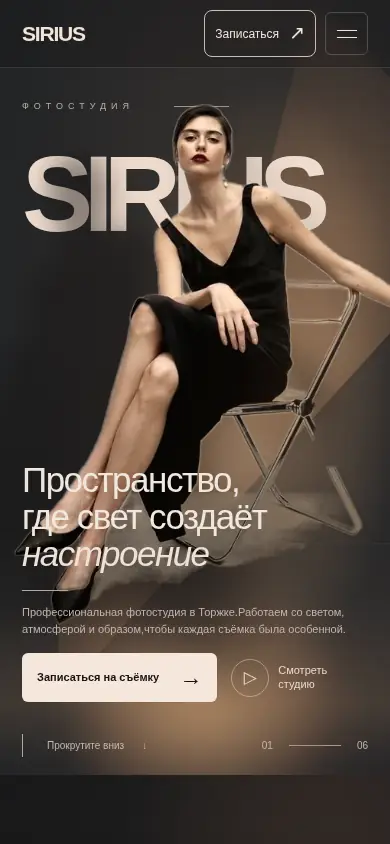
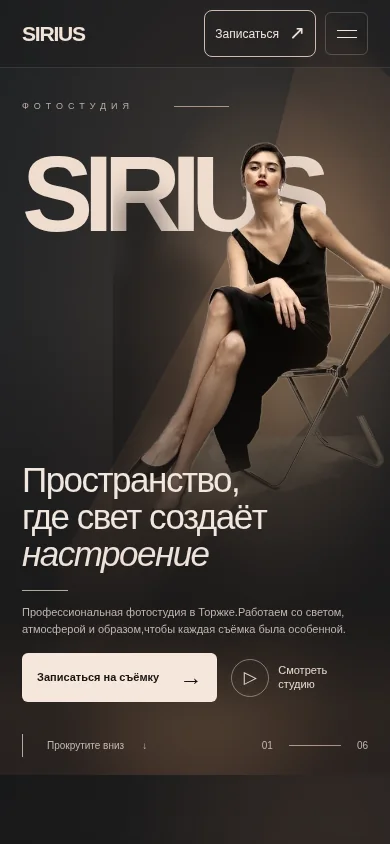
fix: repair corrupted full-page screenshot upload and mobile hero overlap

diff --git a/script.js b/script.js
@@ -179,11 +179,28 @@
   const hero = document.querySelector('[data-hero]');
   const booking = document.querySelector('[data-final]');
   const contacts = document.querySelector('#contacts');
-  if (sticky && hero && booking && contacts && 'IntersectionObserver' in window) {
-    const seen = {hero:true,booking:false,contacts:false};
-    const sync = () => sticky.classList.toggle('is-visible', !seen.hero && !seen.booking && !seen.contacts);
-    for (const [node,key] of [[hero,'hero'],[booking,'booking'],[contacts,'contacts']]) {
-      new IntersectionObserver(([entry]) => {seen[key] = entry.isIntersecting;sync();},{threshold:.08}).observe(node);
-    }
+  if (sticky && hero && booking && contacts) {
+    let scheduled = false;
+    const syncSticky = () => {
+      scheduled = false;
+      const vh = window.innerHeight;
+      const occupiesViewport = (node) => {
+        const rect = node.getBoundingClientRect();
+        return rect.top < vh * .88 && rect.bottom > vh * .12;
+      };
+      // Don't duplicate the hero CTA or cover the actual booking/contact forms.
+      const show = window.innerWidth <= 760 &&
+        hero.getBoundingClientRect().bottom < vh * .10 &&
+        !occupiesViewport(booking) && !occupiesViewport(contacts);
+      sticky.classList.toggle('is-visible', show);
+    };
+    const scheduleSync = () => {
+      if (scheduled) return;
+      scheduled = true;
+      requestAnimationFrame(syncSticky);
+    };
+    window.addEventListener('scroll', scheduleSync, {passive:true});
+    window.addEventListener('resize', scheduleSync);
+    syncSticky();
   }
 })();

diff --git a/styles.css b/styles.css
@@ -327,7 +327,8 @@ body.nav-open .nav-toggle>span:last-child{transform:translateY(-3.5px) rotate(-4
   .hero{height:775px;min-height:775px}
   .hero-eyebrow{top:100px}
   .hero-title{font-size:27.3vw;top:134px;letter-spacing:-.09em}
-  .hero-model{left:43%;width:116vw;max-width:590px;bottom:121px;transform:translateX(-29%)}
+  .hero-model{left:43%;width:min(82vw,540px);max-width:540px;bottom:206px;transform:translateX(-23%);-webkit-mask-image:linear-gradient(to bottom,#000 0%,#000 72%,transparent 100%);mask-image:linear-gradient(to bottom,#000 0%,#000 72%,transparent 100%)}
+  .hero-inner::after{content:"";position:absolute;z-index:5;inset:40% 0 0;pointer-events:none;background:linear-gradient(180deg,transparent 0%,rgba(25,23,23,.46) 32%,rgba(24,23,23,.89) 64%,rgba(42,31,26,.58) 100%)}
   .hero-light{clip-path:polygon(80% 0,100% 10%,100% 43%,15% 90%,15% 73%,68% 24%)}
   .hero-floor{top:70%}
   .hero-copy{top:auto;bottom:79px;width:min(94%,365px)}
@@ -396,7 +397,7 @@ body.nav-open .nav-toggle>span:last-child{transform:translateY(-3.5px) rotate(-4
   .header-right{gap:9px}
   .nav-toggle{width:43px;height:43px}
   .hero-title{font-size:27.4vw;top:141px}
-  .hero-model{left:42%;width:122vw;bottom:120px;transform:translateX(-34%)}
+  .hero-model{left:50%;width:92vw;bottom:217px;transform:translateX(-23%);-webkit-mask-image:linear-gradient(to bottom,#000 0%,#000 75%,rgba(0,0,0,.60) 84%,transparent 100%);mask-image:linear-gradient(to bottom,#000 0%,#000 75%,rgba(0,0,0,.60) 84%,transparent 100%)}
   .hero-copy{bottom:73px}
   .hero-lead{font-size:35px}
   .hero-desc br{display:none}

diff --git a/docs/DARK_EDITORIAL_HANDOFF.md b/docs/DARK_EDITORIAL_HANDOFF.md
@@ -38,3 +38,10 @@ Smoke: PLAYWRIGHT_MODULE=/path/to/playwright-core CHROMIUM_PATH=/path/to/chrome 
 Axe requires local .audit-deps/node_modules/axe-core (not committed).
 
 Release status: NOT APPROVED / draft PR only.
+
+## 11 ноября 2026 — исправление публикации скриншотов и mobile hero
+- После жалобы на Firefox проверили downloaded raw GitHub artifact, не только локальный скриншот. Локальный WebP имел правильный RIFF/WEBP заголовок, а опубликованный через GitHub blob — **другие повреждённые байты** (при экспорте Base64 Node2 вернул усечённую строку большого файла). Ранее 52 браузерных теста эту проблему не покрывали.
+- Повторная загрузка выполняется строго chunked Base64 по 60 000 символов; SHA GitHub blob обязан совпасть с локальным `git hash-object`. После commit проверять downloaded GitHub raw и сравнивать SHA256 с локальным файлом.
+- Добавлен универсальный JPEG `docs/review/full-desktop.jpg` (900 px wide), новый WebP URL `full-desktop-v2.webp` для обхода старого CDN cache, и восстановлен исходный `full-desktop.webp`.
+- Mobile hero: модель уменьшена и перемещена выше, нижняя часть силуэта плавно уходит в тень перед текстом; добавлено локальное светотеневое затемнение для читаемости, повторный screenshot вручную просмотрен. Мобильная нижняя CTA скрыта, пока виден основной hero CTA, и появляется только после выхода из hero.
+- Даже после исправления нельзя считать весь дизайн 1:1 без настоящих интерьерных исходников. Mobile не имеет пользовательского эталона 390px и требует ручного согласования.
